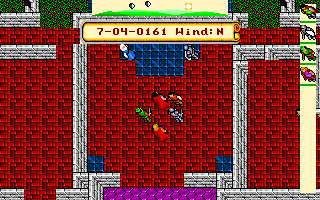
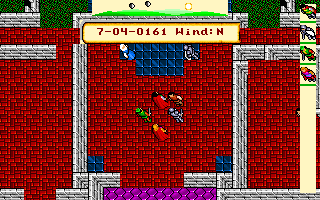
game: conversation in pages around the portrait, topics spelled out with the typing line on their own scroll; scrolls keep their real bottom border

Changed region(s): [[0.25, 0.09, 0.75, 0.24]]

diff --git a/internal/game/layout.go b/internal/game/layout.go
@@ -2,6 +2,7 @@ package game
 
 import (
 	"image"
+	"slices"
 	"strings"
 
 	"github.com/memmaker/u6-go/internal/host"
@@ -28,18 +29,23 @@ const (
 	lightFirst = 4
 	lightLast  = areaSize - lightFirst
 
-	// the clip of the conversation options, in character cells, and how they are laid out
+	// the clip the conversation is printed in while talking, in character cells, right of
+	// the party column; its last row only holds the cursor
+	speechX0, speechY0 = 3, 26
+	speechColumns      = 37
+	speechRows         = 12
+	// the text flows beside the portrait (and a column of room) for its rows
+	portraitColumns = portraitWidth/cellSize + 1
+	portraitRows    = portraitHeight / cellSize
+	// the clip of the conversation options, in character cells, and how they are laid out:
+	// the row after the options is where the player types
 	clipOptions     = 2
-	optionsX0       = 4
-	optionsY0       = 39
+	optionsX0       = speechX0
+	optionsY0       = speechY0 + speechRows + 1
 	optionsColumns  = 3
 	optionWidth     = 12 // characters per option column
-	optionsRows     = 8
+	optionsRows     = 6
 	optionsShownMax = optionsColumns * optionsRows
-	// the clip the conversation is printed in while talking
-	speechX0, speechY0 = 4, 26
-	speechColumns      = 28
-	speechRows         = 12
 
 	// margin is the room left around panels and between them and the screen's edges
 	margin = 4
@@ -63,14 +69,15 @@ var (
 	iconsPanel   = image.Rect(4, 174, 172, 197)
 	partyPanel   = image.Rect(partyColumnX, partyColumnY, partyColumnX+tileSize, partyColumnY+partyListRows*partyRowHeight)
 	speechPanel  = cellRect(speechX0, speechY0, speechColumns, speechRows)
-	optionsPanel = cellRect(optionsX0, optionsY0, optionsColumns*optionWidth, optionsRows)
+	optionsPanel = cellRect(optionsX0, optionsY0, speechColumns, optionsRows+1)
+	optionsList  = cellRect(optionsX0, optionsY0, speechColumns, optionsRows)
 )
 
-// The scroll in PAPER.BMP (the message scroll's top left part) that the panels' scrolls are
-// cut from: its top border is drawn mirrored for the bottom one.
+// The message scroll in PAPER.BMP that the panels' scrolls are cut from: its borders and
+// the inside, which is repeated to fill.
 var (
-	scrollSource = image.Rect(171, 106, 320, 200)
-	scrollInner  = image.Rect(176, 112, 312, 200)
+	scrollSource = image.Rect(171, 106, 315, 196)
+	scrollInner  = image.Rect(176, 112, 312, 192)
 )
 
 func cellRect(x, y, columns, rows int) image.Rectangle {
@@ -93,6 +100,9 @@ type layout struct {
 	prompting, atMainPrompt bool
 	// talkPortrait is the canvas rectangle of the portrait last drawn
 	talkPortrait image.Rectangle
+	// pageFull is set when the conversation's page is full: the next text waits for a key
+	// and starts a new page
+	pageFull bool
 	// talkOptions are the keywords offered at the conversation's prompt, talkChoice the one
 	// highlighted; optionPicked is set by a click on one
 	talkOptions  []string
@@ -133,17 +143,13 @@ func (g *Game) panels() (scrolls []image.Rectangle, panels []panel) {
 	}
 	right := host.ScreenWidth - margin
 	if g.InConversation {
-		const top = margin + scrollPadding
-		talk := image.Rect(margin, margin, right, top+speechPanel.Dy()+scrollPadding)
-		scrolls = append(scrolls, talk)
-		textX := talk.Min.X + scrollPadding
+		at := image.Pt(margin+scrollPadding, margin+scrollPadding)
+		add(true, speechPanel, at)
 		if !g.talkPortrait.Empty() {
-			panels = append(panels, panel{g.talkPortrait, image.Pt(textX, top)})
-			textX += g.talkPortrait.Dx() + scrollPadding
+			add(false, g.talkPortrait, at)
 		}
-		panels = append(panels, panel{speechPanel, image.Pt(textX, top)})
 		if len(g.talkOptions) > 0 {
-			add(true, optionsPanel, image.Pt(talk.Min.X+scrollPadding, talk.Max.Y+margin+scrollPadding))
+			add(true, optionsPanel, image.Pt(at.X, host.ScreenHeight-margin-scrollPadding-optionsPanel.Dy()))
 		}
 		return scrolls, panels
 	}
@@ -205,15 +211,15 @@ func (g *Game) drawScroll(r image.Rectangle) {
 		return
 	}
 	left, top := scrollInner.Min.X-scrollSource.Min.X, scrollInner.Min.Y-scrollSource.Min.Y
-	right := scrollSource.Max.X - scrollInner.Max.X
+	right, bottom := scrollSource.Max.X-scrollInner.Max.X, scrollSource.Max.Y-scrollInner.Max.Y
 	r = r.Intersect(image.Rect(0, 0, host.ScreenWidth, host.ScreenHeight))
 	for y := r.Min.Y; y < r.Max.Y; y++ {
 		var from int
 		switch {
 		case y-r.Min.Y < top:
 			from = scrollSource.Min.Y + y - r.Min.Y
-		case r.Max.Y-1-y < top:
-			from = scrollSource.Min.Y + r.Max.Y - 1 - y
+		case r.Max.Y-1-y < bottom:
+			from = scrollSource.Max.Y - (r.Max.Y - y)
 		default:
 			from = scrollInner.Min.Y + (y-r.Min.Y-top)%scrollInner.Dy()
 		}
@@ -257,9 +263,9 @@ func (g *Game) pointAt(x, y int) (int, int, bool) {
 
 // pointOption highlights the option at canvas point at, and picks it on a click.
 func (g *Game) pointOption(at image.Point, clicked bool) {
-	column := (at.X - optionsPanel.Min.X) / (optionWidth * cellSize)
-	i := column*optionsRows + (at.Y-optionsPanel.Min.Y)/cellSize
-	if i >= len(g.talkOptions) || i >= optionsShownMax {
+	column, row := (at.X-optionsList.Min.X)/(optionWidth*cellSize), (at.Y-optionsList.Min.Y)/cellSize
+	i := column*optionsRows + row
+	if row >= optionsRows || i >= len(g.talkOptions) {
 		return
 	}
 	if i != g.talkChoice {
@@ -282,15 +288,15 @@ func (g *Game) hotKey(ch int) int {
 	return 0
 }
 
-// startTalkLayout prints the conversation in its own clip next to the portrait.
+// startTalkLayout prints the conversation in pages on its own scroll, around the portrait.
 func (g *Game) startTalkLayout() clip {
 	g.putch0(endOfLine)
 	saved := g.clips[clipMessage]
-	g.gr.SetColor(g.colours.background)
-	g.gr.FillRect(speechPanel.Min.X, speechPanel.Min.Y, speechPanel.Max.X-1, speechPanel.Max.Y-1)
 	c := &g.clips[clipMessage]
-	c.x0, c.y0, c.width, c.height, c.curX, c.curY = speechX0, speechY0, speechColumns, speechRows, 0, 0
+	c.y0, c.height = speechY0, speechRows
+	c.attr &^= clipPaging // the pages wait for a key instead
 	g.talkPortrait = image.Rectangle{}
+	g.newSpeechPage()
 	return saved
 }
 
@@ -299,6 +305,84 @@ func (g *Game) endTalkLayout(saved clip) {
 	g.putch0(endOfLine)
 	g.clips[clipMessage] = saved
 	g.talkOptions = nil
+	g.pageFull = false
+}
+
+// newSpeechPage clears the conversation's scroll and prints from its top.
+func (g *Game) newSpeechPage() {
+	g.gr.SetColor(g.colours.background)
+	g.gr.FillRect(speechPanel.Min.X, speechPanel.Min.Y, speechPanel.Max.X-1, speechPanel.Max.Y-1)
+	c := &g.clips[clipMessage]
+	c.curX, c.curY = 0, 0
+	g.lineLen, g.lineShown = 0, 0
+	g.flowSpeech()
+}
+
+// flowSpeech fits the conversation's clip to its row: beside the portrait or below it. A
+// full page leaves the cursor on its last row.
+func (g *Game) flowSpeech() {
+	c := &g.clips[clipMessage]
+	if !g.InConversation || g.current != c {
+		return
+	}
+	c.x0, c.width = speechX0, speechColumns
+	if c.curY < portraitRows && !g.talkPortrait.Empty() {
+		c.x0 += portraitColumns
+		c.width -= portraitColumns
+	}
+	g.pageFull = c.curY >= c.height-1
+}
+
+// speechSkips is putch0's part in the conversation's pages: it drops the blank lines at the
+// top of a page and starts a new page (after a key) for text that does not fit.
+func (g *Game) speechSkips(ch int) bool {
+	c := g.current
+	if !g.InConversation || c != &g.clips[clipMessage] || ch < 0 {
+		return false
+	}
+	newLine := ch == '\n' || ch == 0
+	if g.pageFull {
+		if newLine || ch == ' ' {
+			return true
+		}
+		g.waitForMore()
+		g.newSpeechPage()
+		return false
+	}
+	if g.lineLen == 0 {
+		g.flowSpeech()
+	}
+	return newLine && c.curY == 0 && g.lineLen == 0
+}
+
+// askTopic offers the topics and reads what the player says, typed on the topic scroll;
+// the answer starts a new page.
+func (g *Game) askTopic() string {
+	g.offerOptions()
+	speech := g.current
+	g.current = &g.clips[clipOptions]
+	g.current.curX, g.current.curY = 0, optionsRows
+	g.gr.SetColor(g.colours.background)
+	g.gr.FillRect(optionsList.Min.X, optionsList.Max.Y, optionsPanel.Max.X-1, optionsPanel.Max.Y-1)
+	g.printf("you say:")
+	typed := g.gets(typedLength)
+	g.current = speech
+	g.talkOptions = nil
+	g.newSpeechPage()
+	return typed
+}
+
+// topicWord is keyword spelled out as the first longer word of the conversation that starts
+// with it (the script matches only the keyword's letters), or keyword itself.
+func (g *Game) topicWord(keyword string) string {
+	isLetter := func(r rune) bool { return r >= 'a' && r <= 'z' || r >= 'A' && r <= 'Z' }
+	for _, w := range strings.FieldsFunc(string(g.script), func(r rune) bool { return !isLetter(r) }) {
+		w = strings.ToLower(w)
+		if len(w) > len(keyword) && len(w) < optionWidth && strings.HasPrefix(w, keyword) {
+			return w
+		}
+	}
+	return keyword
 }
 
 // conversationKeywords returns the keywords the script answers at the prompt at pc, as
@@ -350,6 +434,15 @@ func (g *Game) conversationKeywords() []string {
 // offerOptions shows the keywords the script answers now, "bye" highlighted.
 func (g *Game) offerOptions() {
 	g.talkOptions = g.conversationKeywords()
+	if len(g.talkOptions) > optionsShownMax {
+		g.talkOptions = g.talkOptions[:optionsShownMax]
+		if !slices.Contains(g.talkOptions, "bye") {
+			g.talkOptions[optionsShownMax-1] = "bye"
+		}
+	}
+	for i, w := range g.talkOptions {
+		g.talkOptions[i] = g.topicWord(w)
+	}
 	g.talkChoice = 0
 	for i, w := range g.talkOptions {
 		if w == "bye" {
@@ -364,8 +457,8 @@ func (g *Game) drawTalkOptions() {
 	saved := g.current
 	g.current = &g.clips[clipOptions]
 	g.gr.SetColor(g.colours.background)
-	g.gr.FillRect(optionsPanel.Min.X, optionsPanel.Min.Y, optionsPanel.Max.X-1, optionsPanel.Max.Y-1)
-	for i, w := range g.talkOptions[:min(len(g.talkOptions), optionsShownMax)] {
+	g.gr.FillRect(optionsList.Min.X, optionsList.Min.Y, optionsList.Max.X-1, optionsList.Max.Y-1)
+	for i, w := range g.talkOptions {
 		g.current.fg = g.colours.text
 		if i == g.talkChoice {
 			g.current.fg = g.colours.highlight

diff --git a/internal/game/console.go b/internal/game/console.go
@@ -164,6 +164,9 @@ func (g *Game) putch0(ch int) {
 		return
 	}
 	c := g.current
+	if g.speechSkips(ch) {
+		return
+	}
 	if g.skipNewline && c.attr&clipScroll != 0 {
 		if ch == '\n' {
 			return
@@ -198,16 +201,7 @@ func (g *Game) putch0(ch int) {
 	}
 	if c.attr&clipPaging != 0 && g.linesLeft == 0 && ch >= 0 {
 		bottom := c.height + c.y0 - 1
-		g.flushOnGetch = false
-		g.promptChar = morePrompt
-		for {
-			k := g.getch()
-			if k == ' ' || k == '\r' || k == keyEscape || k == cmdPass {
-				break
-			}
-		}
-		g.promptChar = promptChar
-		g.flushOnGetch = true
+		g.waitForMore()
 		for column := range c.width {
 			g.putCharAt(' ', c.x0+column, bottom)
 		}
@@ -274,6 +268,7 @@ func (g *Game) putch0(ch int) {
 		} else if c.attr&clipScroll != 0 {
 			g.scrollUp(c.x0, c.y0, c.width, c.height)
 		}
+		g.flowSpeech()
 	} else {
 		g.lineShown, g.lineLen = c.curX, c.curX
 		g.hideText = false
@@ -281,6 +276,20 @@ func (g *Game) putch0(ch int) {
 	if ch != ' ' {
 		g.lineWord = true
 	}
+}
+
+// waitForMore shows the paging cursor until a key turns the page.
+func (g *Game) waitForMore() {
+	g.flushOnGetch = false
+	g.promptChar = morePrompt
+	for {
+		k := g.getch()
+		if k == ' ' || k == '\r' || k == keyEscape || k == cmdPass {
+			break
+		}
+	}
+	g.promptChar = promptChar
+	g.flushOnGetch = true
 }
 
 func toUpper(ch int) int {

diff --git a/internal/game/talk_test.go b/internal/game/talk_test.go
@@ -93,7 +93,7 @@ func TestTalkToTholden(t *testing.T) {
 			started <- err
 			return
 		}
-		g.random.randomize(1) // the same view each run
+		g.SpellFx[spellTimeStop] = 1 // the same first view each run: nothing fidgets
 		started <- nil
 		g.Play()
 	})
@@ -103,10 +103,11 @@ func TestTalkToTholden(t *testing.T) {
 		t.Fatal(err)
 	}
 	const settle = 30
-	// the first view drawn, before the characters fidget at random
+	// the first view drawn
 	for g.gr.BackBuffer == [len(g.gr.BackBuffer)]byte{} && host.Step() {
 	}
 	compareClassicView(t, g)
+	g.SpellFx[spellTimeStop] = 0
 	steps := func(n int) {
 		for range n {
 			host.Step()
@@ -138,7 +139,7 @@ func TestTalkToTholden(t *testing.T) {
 				host.PushChar(' ')
 				continue
 			}
-			if !g.InConversation || strings.HasSuffix(strings.TrimSpace(scrollText(g)), "you say:") {
+			if !g.InConversation || len(g.talkOptions) > 0 {
 				break
 			}
 		}
@@ -175,7 +176,7 @@ func TestTalkToTholden(t *testing.T) {
 	if g.InConversation {
 		t.Error("still talking after bye")
 	}
-	for _, want := range []string{"You see a", "you say:name", "I am Tholden von", "paperwork", "Tholden bows"} {
+	for _, want := range []string{"You see a", "I am Tholden von", "paperwork", "Tholden bows"} {
 		if !strings.Contains(text, want) {
 			t.Errorf("transcript lacks %q", want)
 		}

diff --git a/internal/game/mainloop.go b/internal/game/mainloop.go
@@ -92,7 +92,7 @@ func New(dir string) (*Game, error) {
 		g.paper = paper
 	}
 	g.createClip(clipParty, partyClipX0, partyClipY0, partyClipX1, partyClipY1)
-	g.createClip(clipOptions, optionsX0, optionsY0, optionsX0+optionsColumns*optionWidth-1, optionsY0+optionsRows-1)
+	g.createClip(clipOptions, optionsX0, optionsY0, optionsX0+speechColumns-1, optionsY0+optionsRows)
 	g.createClip(clipMessage, messageClipX0, messageClipY0, messageX1, messageY1)
 	g.setClip(clipMessage)
 	g.current.attr |= clipWordWrap | clipScroll | clipUppercase

diff --git a/internal/game/talk.go b/internal/game/talk.go
@@ -653,14 +653,11 @@ func (g *Game) converse() bool {
 	resume := g.pc
 	switch op := g.next(); op {
 	case opAskTop:
-		g.printf("\nyou say:")
 		if answer := g.copyProtectionAnswer(); answer != "" {
 			g.typed = answer
-			g.printf("%s", answer)
+			g.printf("\nyou say:%s", answer)
 		} else {
-			g.offerOptions()
-			g.typed = g.gets(typedLength)
-			g.talkOptions = nil
+			g.typed = g.askTopic()
 		}
 		g.printf("\n")
 		g.answered = false
